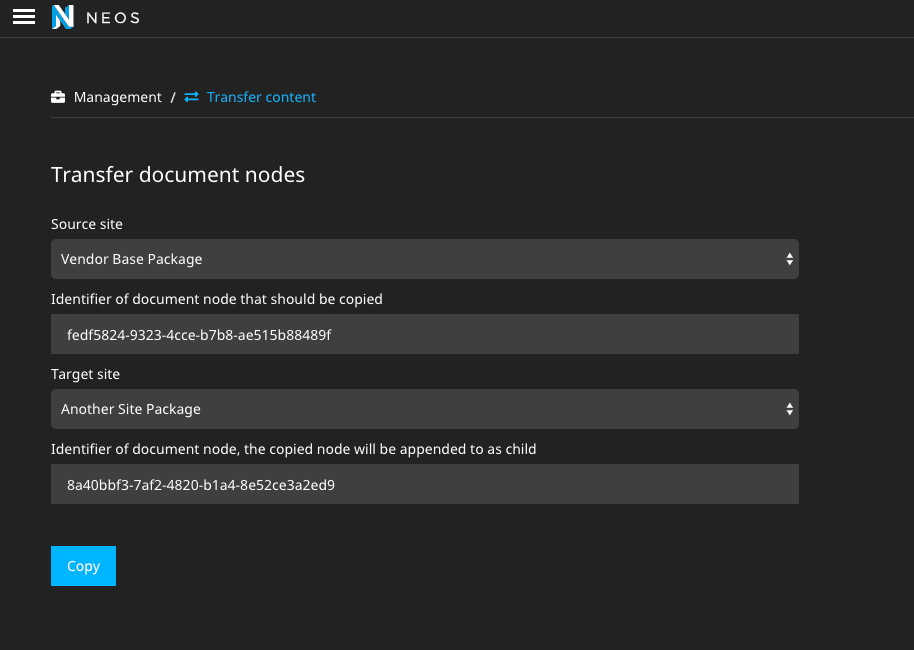
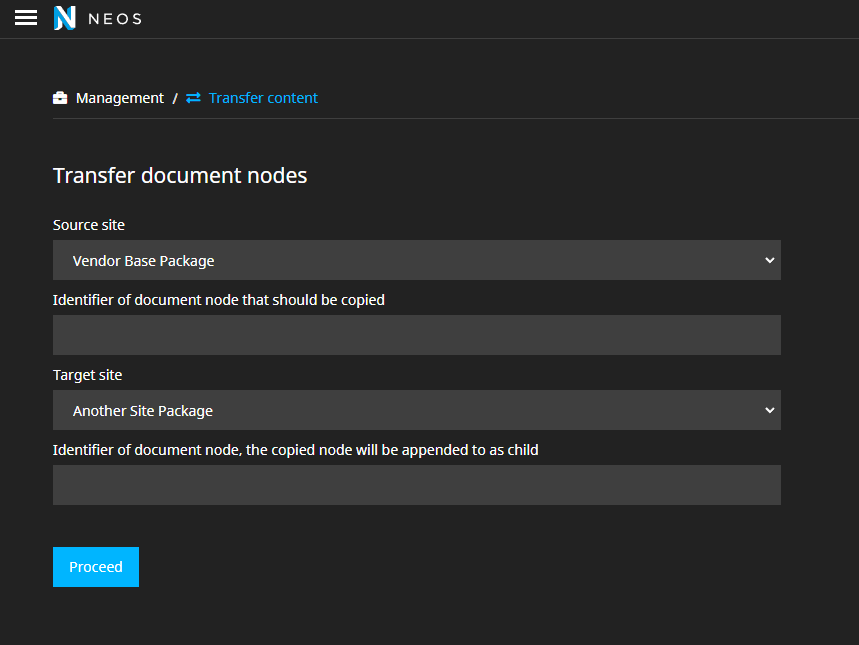
FEATURE: Adds an option to move nodes
Adds additional option to move nodes instead of copying them

diff --git a/Resources/Private/Templates/ContentTransfer/Index.html b/Resources/Private/Templates/ContentTransfer/Index.html
@@ -58,9 +58,24 @@
                                       arguments="{fieldname: 'targetParentNodePath'}"/>
                         </div>
                     </div>
+
+                    <f:if condition="{allowNodeMoving}">
+                        <f:then>
+                            <div class="neos-control-group">
+                                <label class="neos-checkbox neos-inline">
+                                    <f:form.checkbox name="moveNodesInstead" value="1"/>
+                                    <span></span> {neos:backend.translate(id: 'Shel.Neos.TransferContent:ContentTransfer:moveNodesInstead')}
+                                </label>
+                            </div>
+                            <div>
+                                <h3>{neos:backend.translate(id: 'Shel.Neos.TransferContent:ContentTransfer:help.headline')}</h3>
+                                <p>{neos:backend.translate(id: 'Shel.Neos.TransferContent:ContentTransfer:help.text') -> f:format.raw()}</p>
+                            </div>
+                        </f:then>
+                    </f:if>
                 </fieldset>
             </div>
-            <f:form.submit value="{neos:backend.translate(id: 'Shel.Neos.TransferContent:ContentTransfer:copy')}"
+            <f:form.submit value="{neos:backend.translate(id: 'Shel.Neos.TransferContent:ContentTransfer:submit')}"
                            class="neos-button neos-button-primary"/>
         </fieldset>
     </f:form>

diff --git a/Classes/Controller/ContentTransferController.php b/Classes/Controller/ContentTransferController.php
@@ -5,6 +5,7 @@ namespace Shel\Neos\TransferContent\Controller;
 use Neos\Flow\Annotations as Flow;
 use Neos\Error\Messages\Message;
 use Neos\Flow\I18n\Translator;
+use Neos\Flow\Mvc\Exception\StopActionException;
 use Neos\Neos\Controller\Module\AbstractModuleController;
 use Neos\Neos\Domain\Model\Site;
 use Neos\Neos\Domain\Repository\SiteRepository;
@@ -47,8 +48,9 @@ class ContentTransferController extends AbstractModuleController
 
     /**
      * Shows form to transfer content
-     * @param Site $sourceSite
-     * @param Site $targetSite
+     *
+     * @param Site|null $sourceSite
+     * @param Site|null $targetSite
      * @param string $targetParentNodePath
      */
     public function indexAction(Site $sourceSite = null, Site $targetSite = null, $targetParentNodePath = '')
@@ -60,6 +62,7 @@ class ContentTransferController extends AbstractModuleController
             'sourceSite' => $sourceSite,
             'targetSite' => $targetSite,
             'targetParentNodePath' => $targetParentNodePath,
+            'allowNodeMoving' => $this->settings['allowNodeMoving'],
         ]);
     }
 
@@ -68,11 +71,12 @@ class ContentTransferController extends AbstractModuleController
      * @param Site $targetSite
      * @param string $sourceNodePath
      * @param string $targetParentNodePath
+     * @param bool $moveNodesInstead
+     * @throws StopActionException
      * @Flow\Validate(argumentName="sourceNodePath", type="\Neos\Flow\Validation\Validator\NotEmptyValidator")
      * @Flow\Validate(argumentName="targetParentNodePath", type="\Neos\Flow\Validation\Validator\NotEmptyValidator")
-     * @throws \Neos\Flow\Mvc\Exception\StopActionException
      */
-    public function copyNodeAction(Site $sourceSite, Site $targetSite, $sourceNodePath, $targetParentNodePath)
+    public function copyNodeAction(Site $sourceSite, Site $targetSite, string $sourceNodePath, string $targetParentNodePath, bool $moveNodesInstead = false)
     {
         /** @var ContentContext $sourceContext */
         $sourceContext = $this->contextFactory->create([
@@ -123,11 +127,19 @@ class ContentTransferController extends AbstractModuleController
             );
         } else {
             try {
-                $this->nodeOperations->copy($sourceNode, $targetParentNode, 'into');
-                $this->addFlashMessage(
-                    $this->translate('message.copied'),
-                    'Success'
-                );
+                if ($moveNodesInstead) {
+                    $this->nodeOperations->move($sourceNode, $targetParentNode, 'into');
+                    $this->addFlashMessage(
+                        $this->translate('message.moved'),
+                        'Success'
+                    );
+                } else {
+                    $this->nodeOperations->copy($sourceNode, $targetParentNode, 'into');
+                    $this->addFlashMessage(
+                        $this->translate('message.copied'),
+                        'Success'
+                    );
+                }
             } catch (NodeException $e) {
                 $this->addFlashMessage(
                     $this->translate('error.copyFailed', [$e->getReferenceCode()]),

diff --git a/README.md b/README.md
@@ -2,7 +2,7 @@
 
 ## Introduction
 
-This plugin will add a new backend module for copying nodes between sites in a 
+This plugin will add a new backend module for copying and moving nodes between sites in a 
 Neos multi site installation.
 
 It's currently compatible with Neos 4.3 and the 5.* branch
@@ -37,6 +37,19 @@ Then run `composer update` in your project directory.
  4. Choose what site you are copying to
  5. Enter the `identifier` where you would like the content to be copied **into**. Please understand, that the tool take the page chosen above **including subpages** and copies **into** the identifier your enter. It doesn't override the entered page
 
+### Settings
+
+You can also optionally allow to move nodes instead of copying them by setting the following setting in your `Settings.yaml`:
+```yaml
+Shel:
+  Neos:
+    TransferContent:
+      allowNodeMoving: true 
+```
+
+If the settings is active a checkbox is shown where the user can opt to move the nodes instead of copying them.
+
+![Preview](Documentation/example-extended.png)
 
 ## Contributions
 
